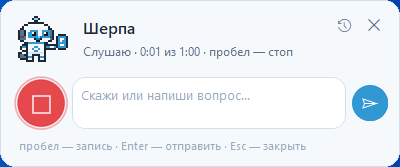
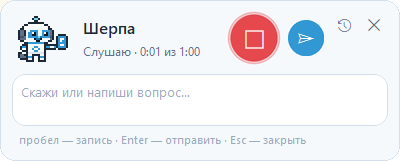
Окно справки: микрофон и «отправить» в шапке, поле вопроса на всю ширину, перенос длинного подзаголовка (правки из канваса)

diff --git a/sherpa_voice_ui.py b/sherpa_voice_ui.py
@@ -234,18 +234,22 @@ class CardWindow(tk.Toplevel):
         self.body = tk.Frame(self.bgc, bg=C["card"])
         self.body.place(x=INSET, y=INSET - 2, relwidth=1, width=-2 * INSET, relheight=1, height=-2 * INSET + 2)
 
-        head = tk.Frame(self.body, bg=C["card"])
+        self.head = head = tk.Frame(self.body, bg=C["card"])
         head.pack(fill="x")
         self.avatar_lbl = tk.Label(head, image=avatar(pose), bg=C["card"], bd=0)
         self.avatar_lbl.pack(side="left")
-        txt = tk.Frame(head, bg=C["card"])
-        txt.pack(side="left", padx=(8, 0), fill="x", expand=True)
-        self.title_lbl = tk.Label(txt, text=title, bg=C["card"], fg=C["ink"], font=(UI_SB, 12), anchor="w")
-        self.title_lbl.pack(fill="x")
-        self.sub_lbl = tk.Label(txt, text=subtitle, bg=C["card"], fg=C["muted"], font=(UI, 9), anchor="w")
-        self.sub_lbl.pack(fill="x")
         self.head_btns = tk.Frame(head, bg=C["card"])
         self.head_btns.pack(side="right", anchor="n")
+        # width=1: текст не отбирает место у кнопок справа, длинный подзаголовок переносится на 2-ю строку
+        self.head_txt = txt = tk.Frame(head, bg=C["card"])
+        txt.pack(side="left", padx=(8, 0), fill="x", expand=True)
+        self.title_lbl = tk.Label(txt, text=title, bg=C["card"], fg=C["ink"], font=(UI_SB, 12), anchor="w",
+                                  width=1)
+        self.title_lbl.pack(fill="x")
+        self.sub_lbl = tk.Label(txt, text=subtitle, bg=C["card"], fg=C["muted"], font=(UI, 9), anchor="w",
+                                justify="left", width=1)
+        self.sub_lbl.pack(fill="x")
+        txt.bind("<Configure>", lambda e: self.sub_lbl.config(wraplength=max(60, e.width - 2)))
         IconButton(self.head_btns, I_CLOSE, size=28, bg=C["card"], fg=C["muted"], hover=C["hover"],
                    command=self.close, icon_size=9).pack(side="right")
         for wdg in (head, self.avatar_lbl, txt, self.title_lbl, self.sub_lbl):
@@ -353,19 +357,23 @@ class VoiceWindow(CardWindow):
         # --- переписка: появляется над строкой ввода после первого вопроса ---
         self.chat = Chat(self.body, self.WIDTH - 2 * INSET)
 
-        # --- строка ввода: микрофон, поле, отправить ---
+        # --- микрофон и «отправить» — в шапке, на свободном месте справа от имени ---
+        ctl = tk.Frame(self.head, bg=C["card"])
+        ctl.pack(side="right", padx=(0, 6), before=self.head_txt)
+        self.send = IconButton(ctl, I_SEND, size=36, command=self.ask, icon_size=12)
+        self.send.pack(side="right", padx=(6, 0))
+        self.mic = IconButton(ctl, I_MIC, size=46, ring=5, command=self.toggle_record, icon_size=16)
+        self.mic.pack(side="right")
+
+        # --- поле вопроса на всю ширину ---
         self.bar = tk.Frame(self.body, bg=C["card"])
         self.bar.pack(fill="x", pady=(8, 0))
-        self.mic = IconButton(self.bar, I_MIC, size=46, ring=6, command=self.toggle_record, icon_size=16)
-        self.mic.pack(side="left", padx=(0, 2))
-        self.send = IconButton(self.bar, I_SEND, size=36, command=self.ask, icon_size=12)
-        self.send.pack(side="right", padx=(6, 0))
         self.q_text = tk.Text(self.bar, height=2, wrap="word", font=(UI, 10), bg=C["white"], fg=C["ink"],
                               relief="flat", bd=0, highlightthickness=0, insertbackground=C["blue_dk"], undo=True)
         field = Panel(self.bar, C["white"], C["card"], r=14, outline=C["border"], inner=self.q_text, pad=8,
                       height=52)
         self.q_text.lift(field)
-        field.pack(side="left", fill="x", expand=True)
+        field.pack(fill="x")
         self.q_text.bind("<Return>", self._on_enter)
         self.q_text.bind("<FocusIn>", self._ph_off)
         self.q_text.bind("<FocusOut>", self._ph_on)
@@ -389,6 +397,10 @@ class VoiceWindow(CardWindow):
         self.mic.focus_set()
         self.set_subtitle("Бужу мозг…")
         self.worker.run(self.client.ensure_running, lambda _: self._ready(), self._on_error)
+
+    def set_subtitle(self, text, error=False):
+        super().set_subtitle(text, error)
+        self.fit()  # длинная ошибка в две строки — окно чуть выше
 
     # --- раскладка ---
     def _compact(self, on: bool) -> None:
@@ -497,7 +509,7 @@ class VoiceWindow(CardWindow):
             self.mic.redraw()
             return
         sec = self.rec.elapsed()
-        self.set_subtitle(f"Слушаю · {int(sec) // 60}:{int(sec) % 60:02d} из 1:00 · пробел — стоп")
+        self.set_subtitle(f"Слушаю · {int(sec) // 60}:{int(sec) % 60:02d} из 1:00")
         self.mic.pulse_phase = (sec / 1.4) % 1.0
         self.mic.redraw()
         if sec >= MAX_REC_S:
